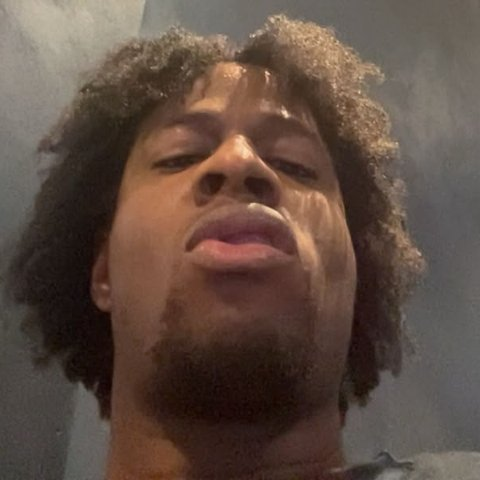
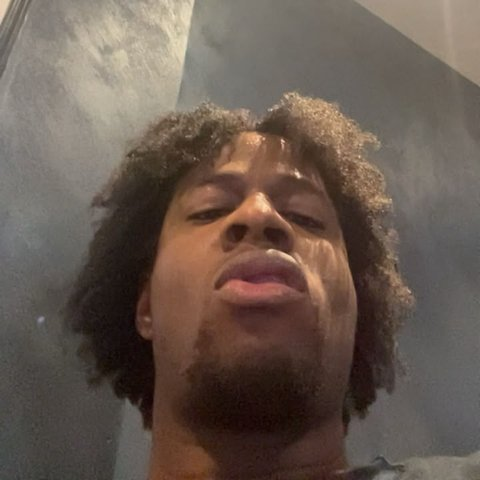
Show more of the profile photo

diff --git a/index.html b/index.html
@@ -43,7 +43,7 @@
 
       <div class="avatar-wrap">
         <div class="avatar-ring"></div>
-        <div class="avatar"><img src="images/profile.jpg" alt="Photo of Chukwunonso Uzoma"></div>
+        <div class="avatar"><img src="images/profile.jpg?v=2" alt="Photo of Chukwunonso Uzoma"></div>
       </div>
     </div>
 
